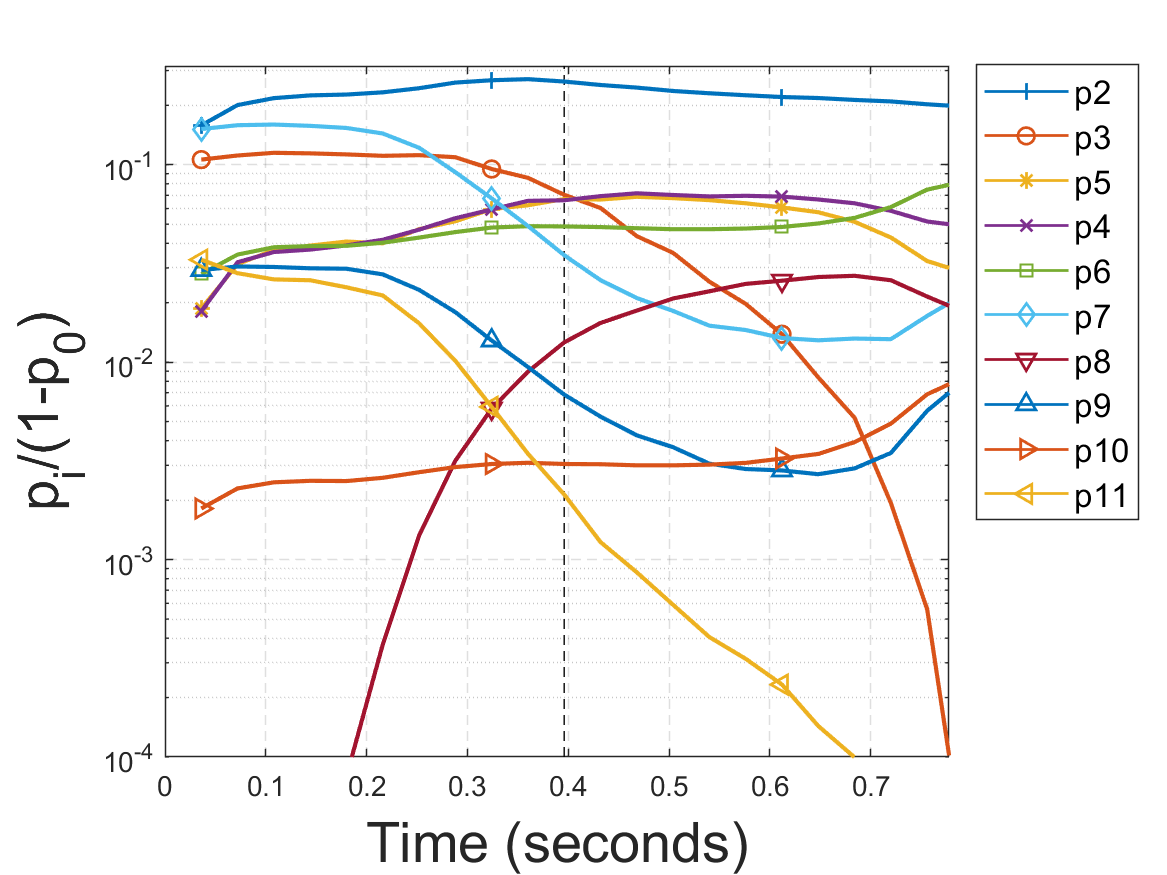
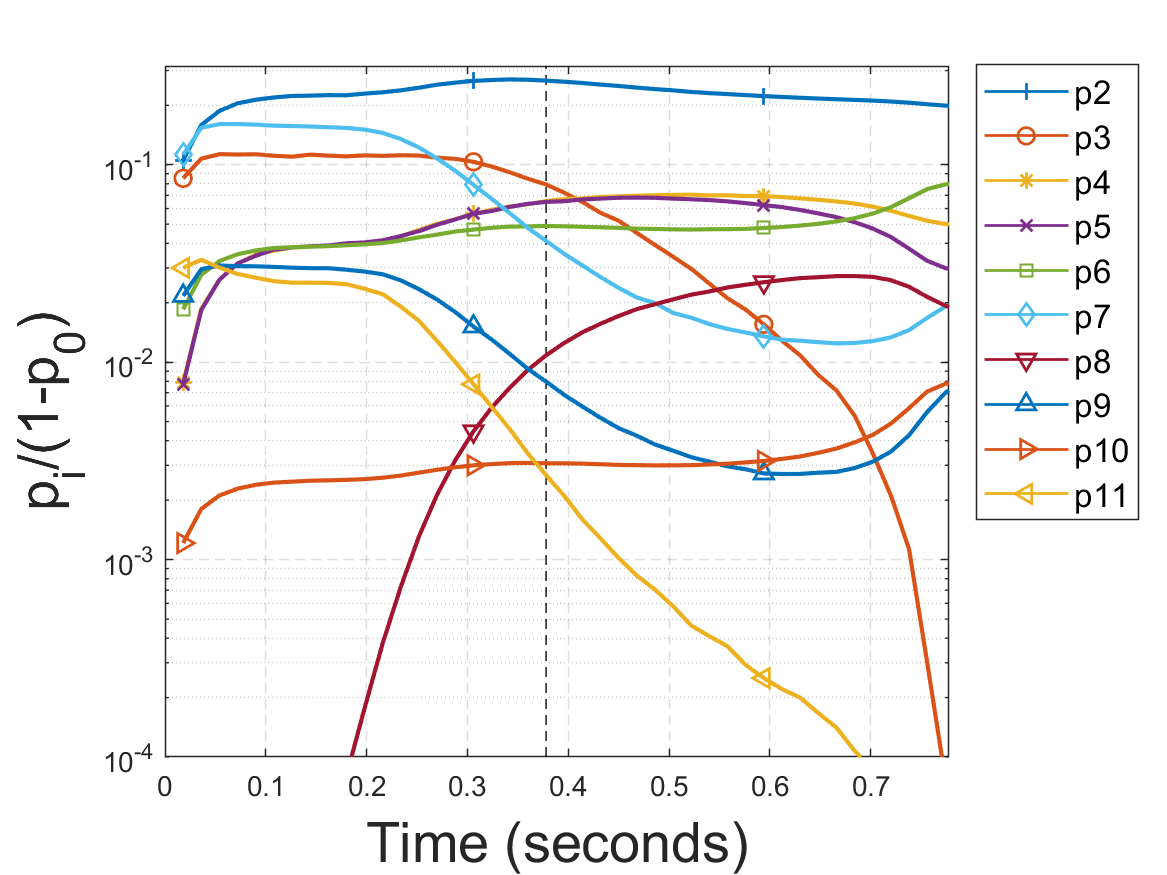
pathway probability cross over done

diff --git a/theory/misc/pathway/path_prob_cross_over_figure/pp_cross_over_v4.m b/theory/misc/pathway/path_prob_cross_over_figure/pp_cross_over_v4.m
@@ -33,7 +33,12 @@ pic_dir = fullfile(fileparts(mfilename('fullpath')));
 %% import time 1
 fn_time1 = fullfile(pic_dir, 'data4', 'pathway_time_candidate.csv');
 delimiter = ',';
-formatSpec = '%f%f%f%f%f%f%f%f%f%f%f%f%f%f%f%f%f%f%f%f%f%f%f%f%f%[^\n\r]';
+formatStr = '';
+for i=1:50
+    formatStr = strcat(formatStr, '%f');
+end
+formatStr = strcat(formatStr, '%[^\n\r]');
+formatSpec = char(formatStr);
 fileID = fopen(fn_time1,'r');
 dataArray = textscan(fileID, formatSpec, 'Delimiter', delimiter, 'TextType', 'string',  'ReturnOnError', false);
 fclose(fileID);
@@ -44,7 +49,12 @@ clearvars fn_time1 delimiter formatSpec fileID dataArray ans;
 %% import pathway probability 1
 fn_pp1 = fullfile(pic_dir, 'data4', 'pathway_prob.csv');
 delimiter = ',';
-formatSpec = '%f%f%f%f%f%f%f%f%f%f%f%f%f%f%f%f%f%f%f%f%f%f%f%f%f%[^\n\r]';
+formatStr = '';
+for i=1:50
+    formatStr = strcat(formatStr, '%f');
+end
+formatStr = strcat(formatStr, '%[^\n\r]');
+formatSpec = char(formatStr);
 fileID = fopen(fn_pp1,'r');
 dataArray = textscan(fileID, formatSpec, 'Delimiter', delimiter, 'TextType', 'string',  'ReturnOnError', false);
 fclose(fileID); 
@@ -79,7 +89,7 @@ hold on;
 % graph handler
 color_idx = 1;
 marker_idx = 1;
-delta_n = 8;
+delta_n = 16;
 legend_name = cell(N,1);
 for idx=1:N
     path_idx = I1(topN_array(idx));
